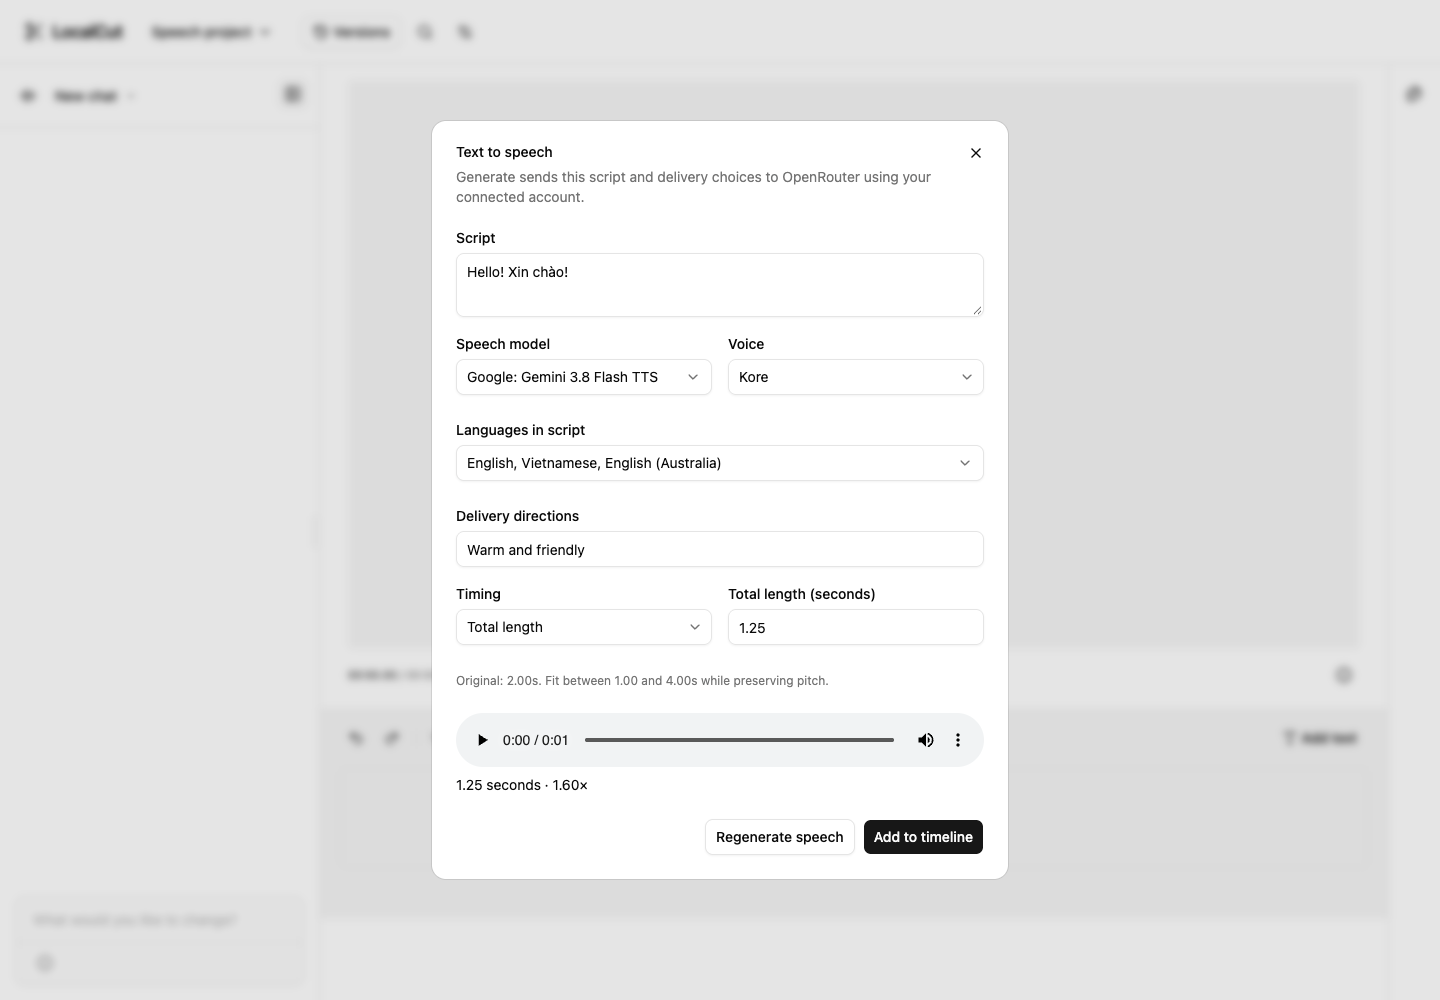
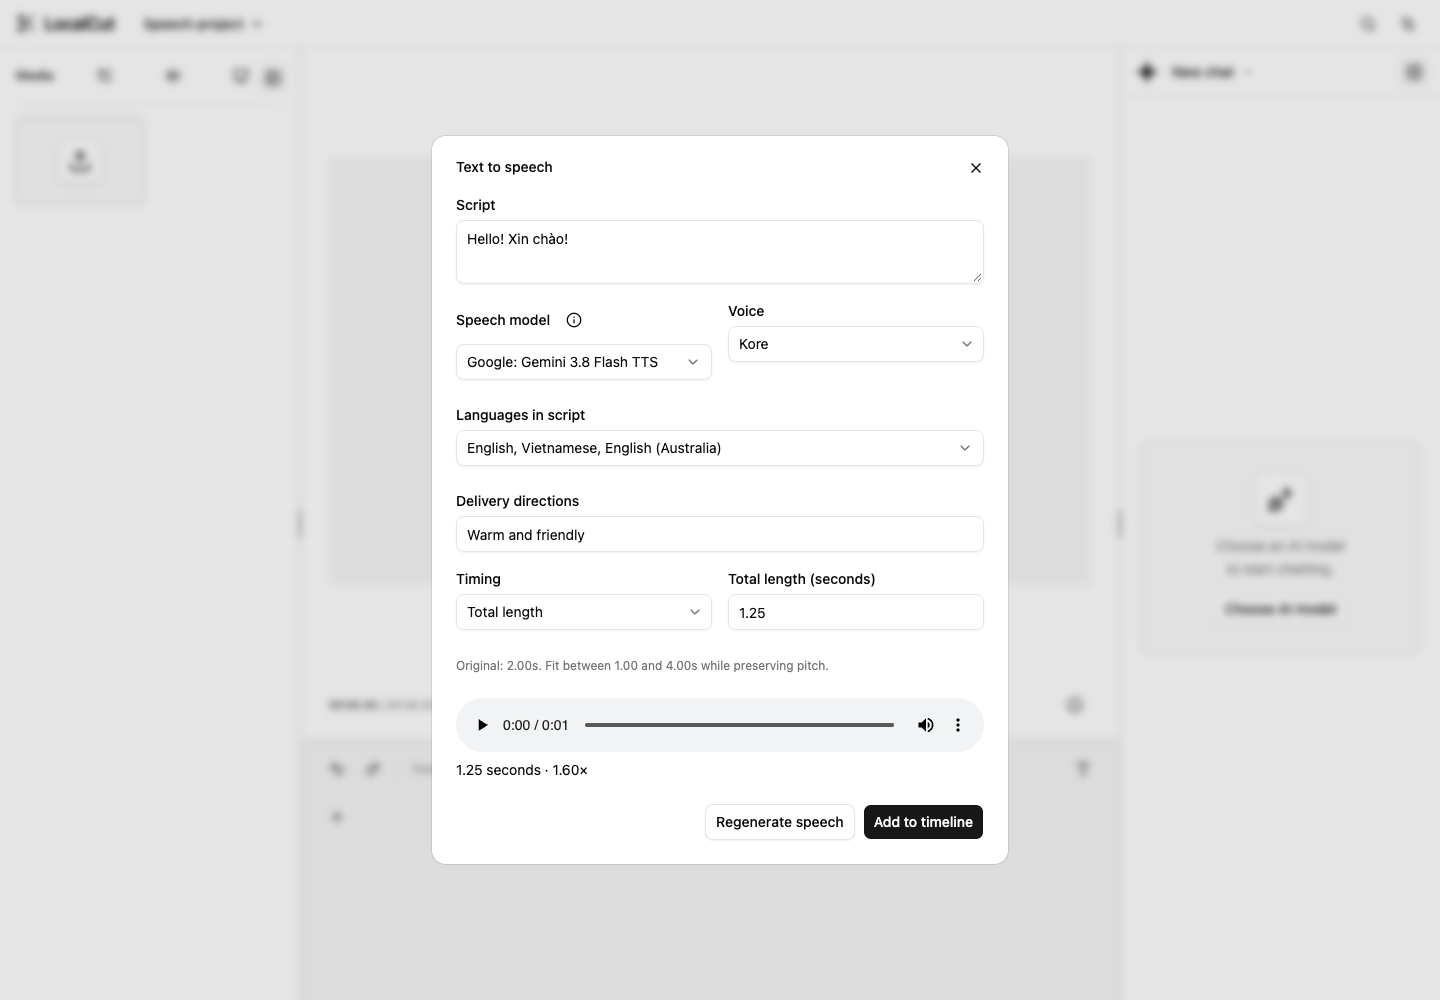
Keep speech footer visible and stabilize queued status regression

diff --git a/src/workspace/SpeechDialog.tsx b/src/workspace/SpeechDialog.tsx
@@ -430,7 +430,7 @@ export default function SpeechDialog({
         if (!open) onClose();
       }}
     >
-      <DialogContent className="max-h-[calc(var(--app-viewport-height)*0.9)] overflow-y-auto sm:max-w-xl">
+      <DialogContent className="h-auto max-h-[calc(var(--app-viewport-height)*0.9)] overflow-y-auto sm:max-w-xl">
         <DialogHeader>
           <DialogTitle>Text to speech</DialogTitle>
           <DialogDescription className="sr-only">

diff --git a/tests/browser/workspace-speech.spec.ts b/tests/browser/workspace-speech.spec.ts
@@ -601,7 +601,7 @@ for (const base of ['/', '/LocalCut/']) {
       .getByRole('button', { name: 'Generate speech', exact: true })
       .click();
     await expect(
-      dialog.getByText('Speech queued…', { exact: true }),
+      dialog.getByRole('status').filter({ hasText: /queued/i }),
     ).toBeVisible();
     await expect
       .poll(() =>
